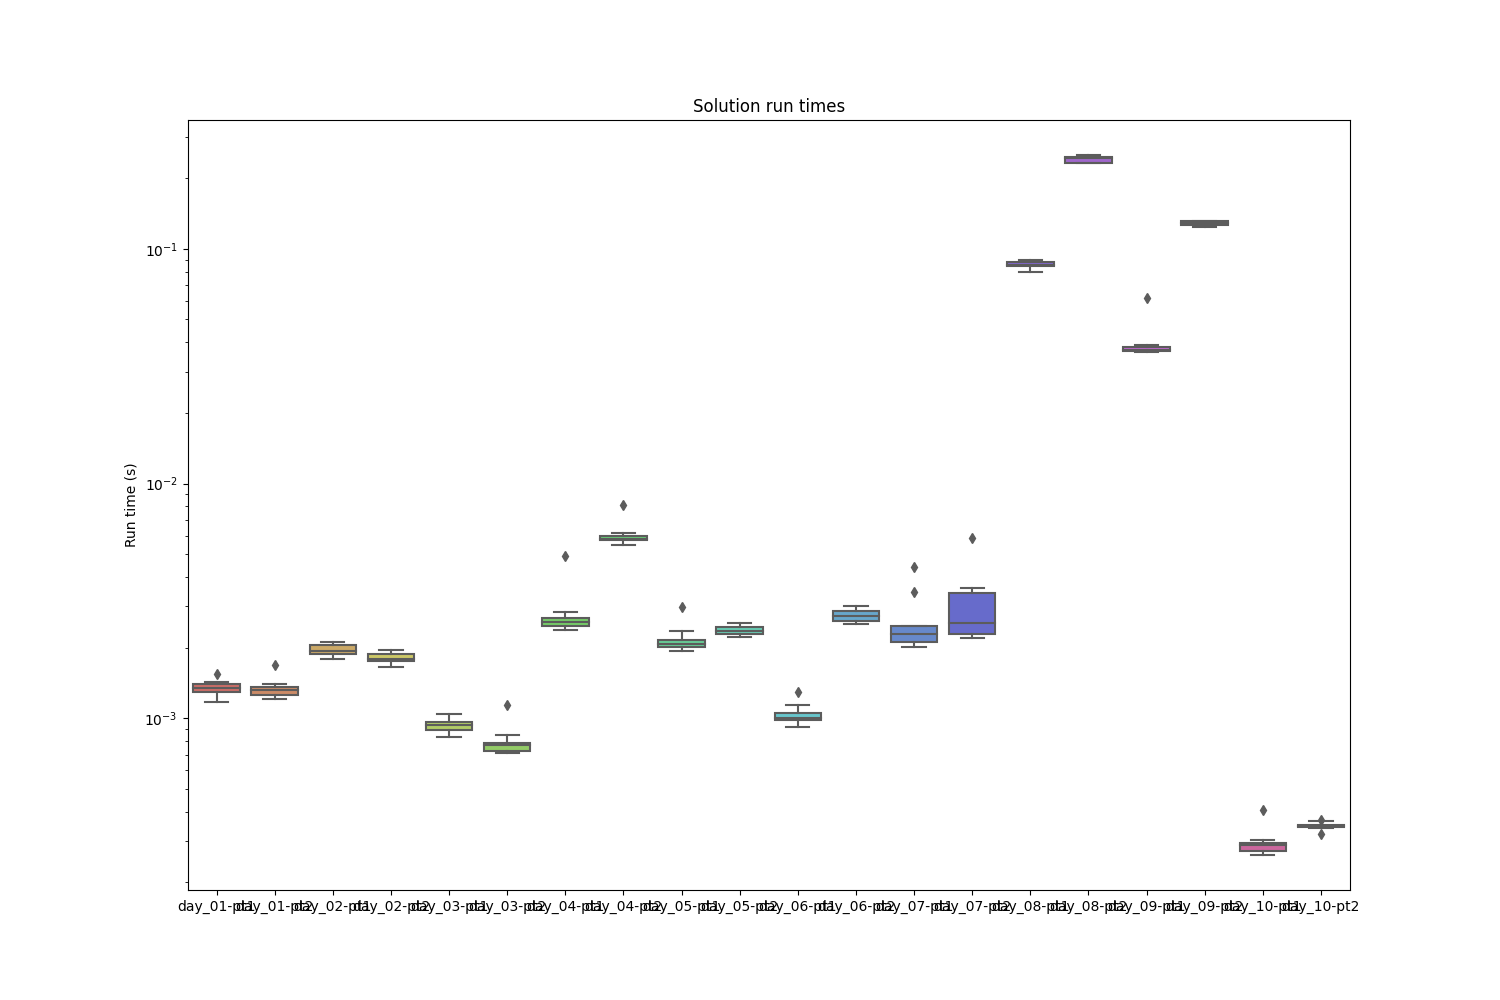
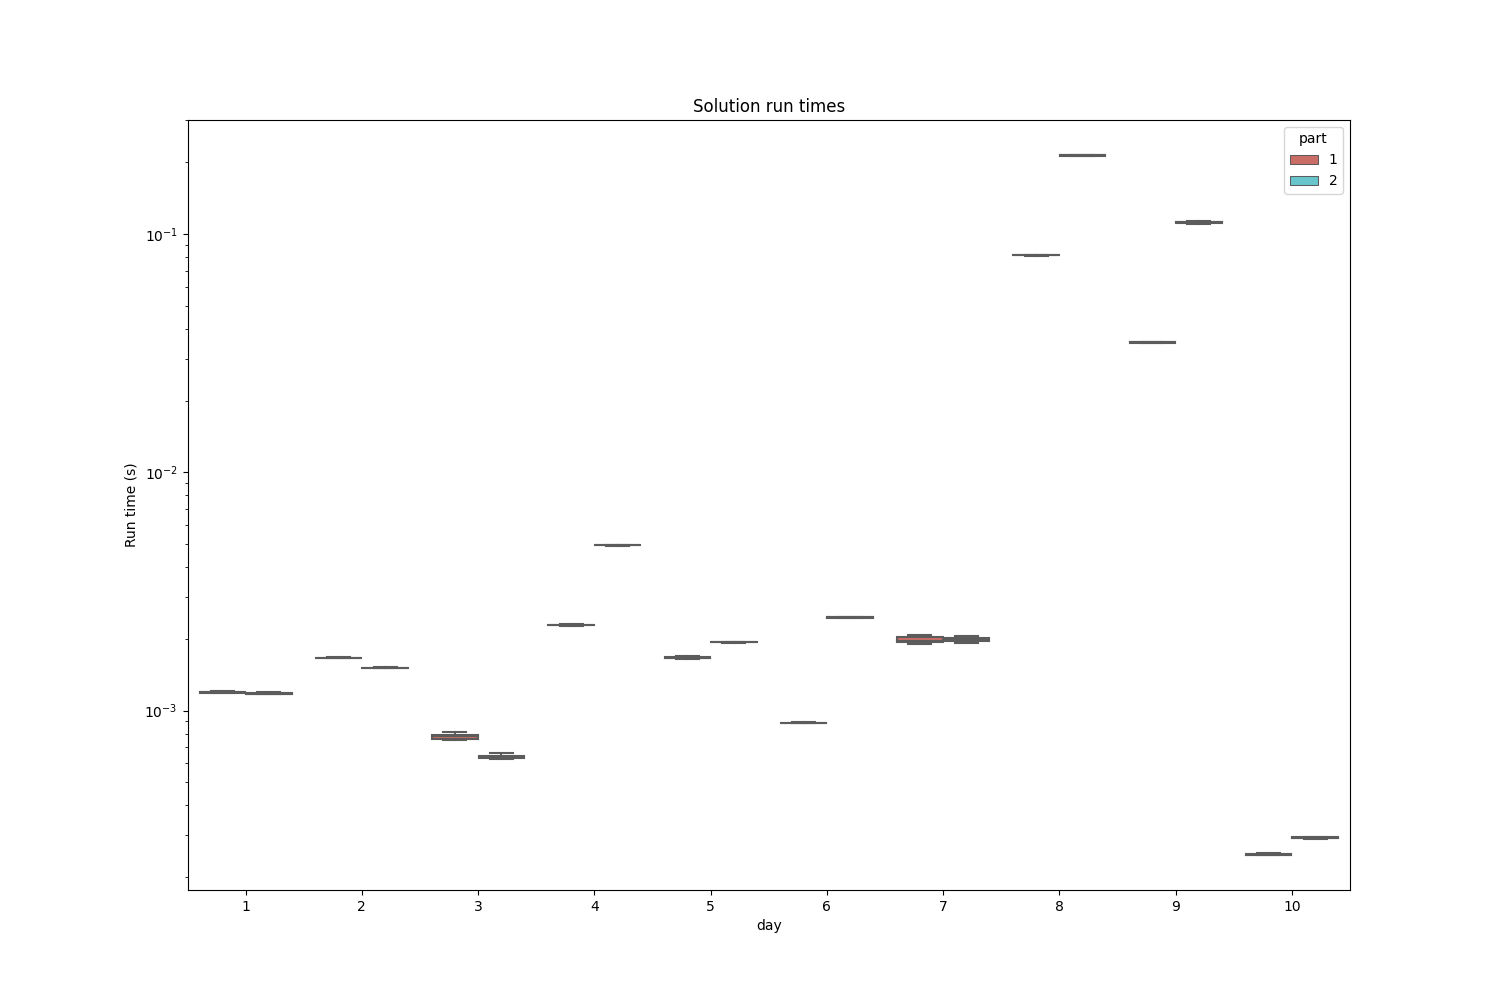
adjusted benchmark (#17)
* adjusted benchmark

* ran benchmarking

diff --git a/benchmark.py b/benchmark.py
@@ -1,6 +1,7 @@
 import importlib
 import pkgutil
 import time
+from tqdm import tqdm
 
 import matplotlib.pyplot as plt
 import pandas as pd
@@ -9,9 +10,9 @@ import seaborn as sns
 import aoc
 
 
-def benchmark(func: callable, file_path: str, N=10) -> list:
+def benchmark(func: callable, file_path: str, n=10) -> list:
 
-    return [time_function(func, file_path) for i in range(N)]
+    return [time_function(func, file_path) for _ in range(n)]
 
 
 def time_function(func: callable, file_path: str) -> float:
@@ -34,21 +35,28 @@ def get_modules():
     return module_dict
 
 
-def run_benchmarks(N=10):
+def run_benchmarks(n=10):
 
     module_dict = get_modules()
 
-    for key, value in module_dict.items():
-        module_dict[key] = benchmark(*value, N=N)
+    for key, value in tqdm(module_dict.items()):
+        module_dict[key] = benchmark(*value, n=n)
 
     return pd.DataFrame(module_dict)
 
 
 def save_figure(df):
 
+    df = df.melt(var_name="function", value_name="runtime")
+    df["day"] = df["function"].str.slice(4, 6).apply(int)
+    df["part"] = df["function"].str.slice(-1).apply(int)
+
+    plt.clf()
     plt.figure(figsize=(15, 10))
 
-    s = sns.boxplot(df, palette="hls")
+    s = sns.boxplot(
+        df, palette="hls", x="day", y="runtime", hue="part", showfliers=False
+    )
     s.set_ylabel("Run time (s)")
     s.set_yscale("log")
     s.set_title("Solution run times")
@@ -57,5 +65,5 @@ def save_figure(df):
 
 
 if __name__ == "__main__":
-    df = run_benchmarks()
+    df = run_benchmarks(n=25)
     save_figure(df)
